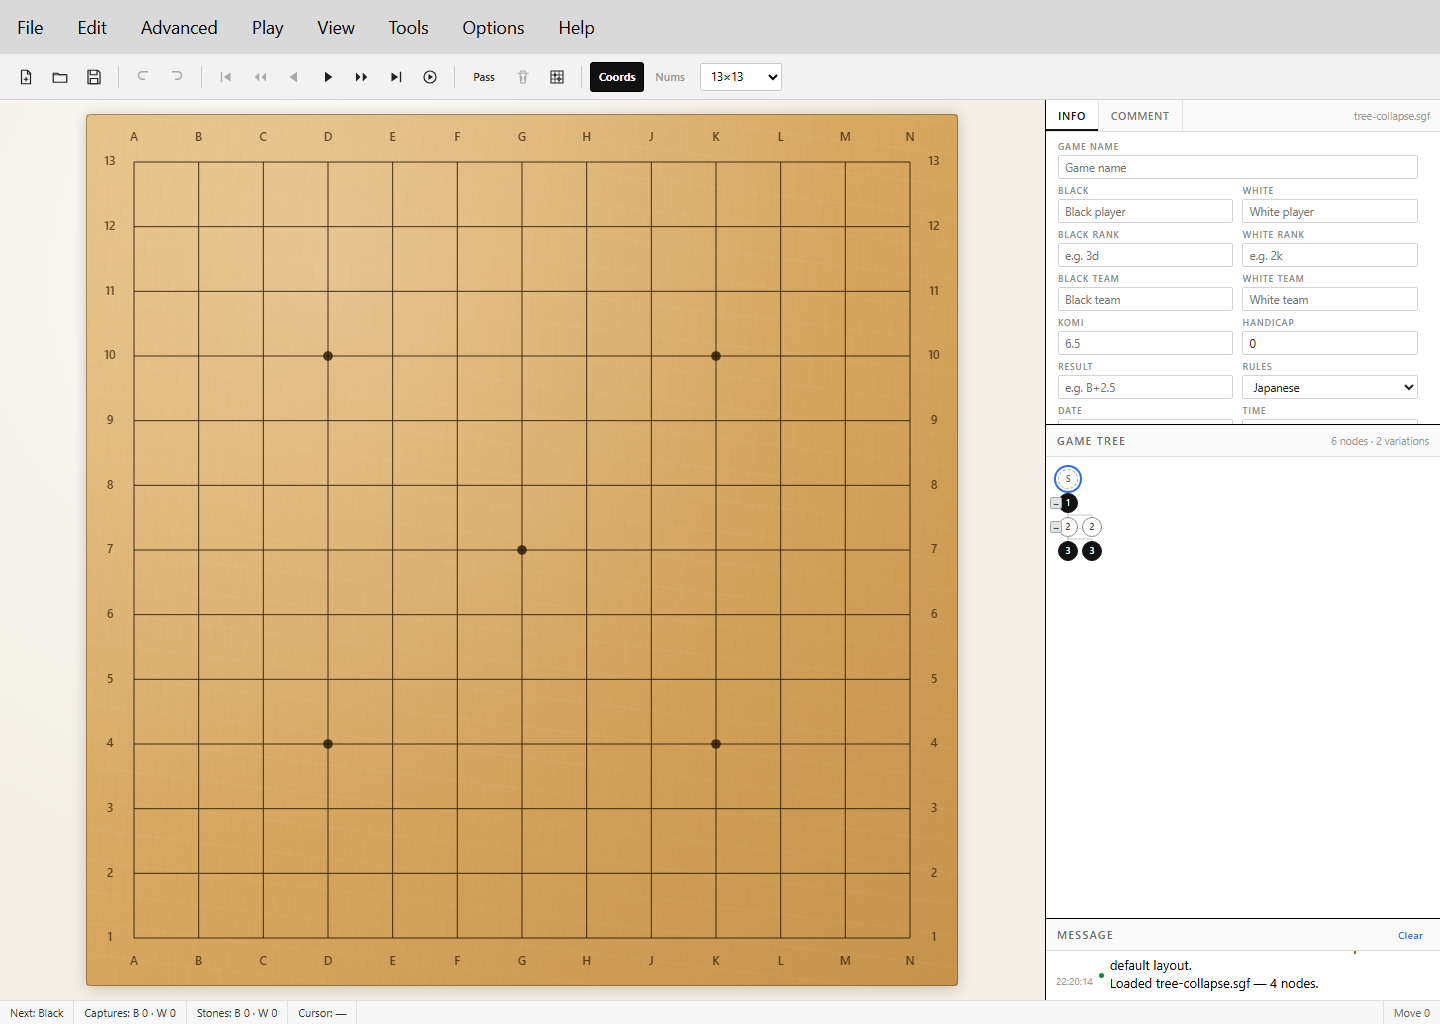
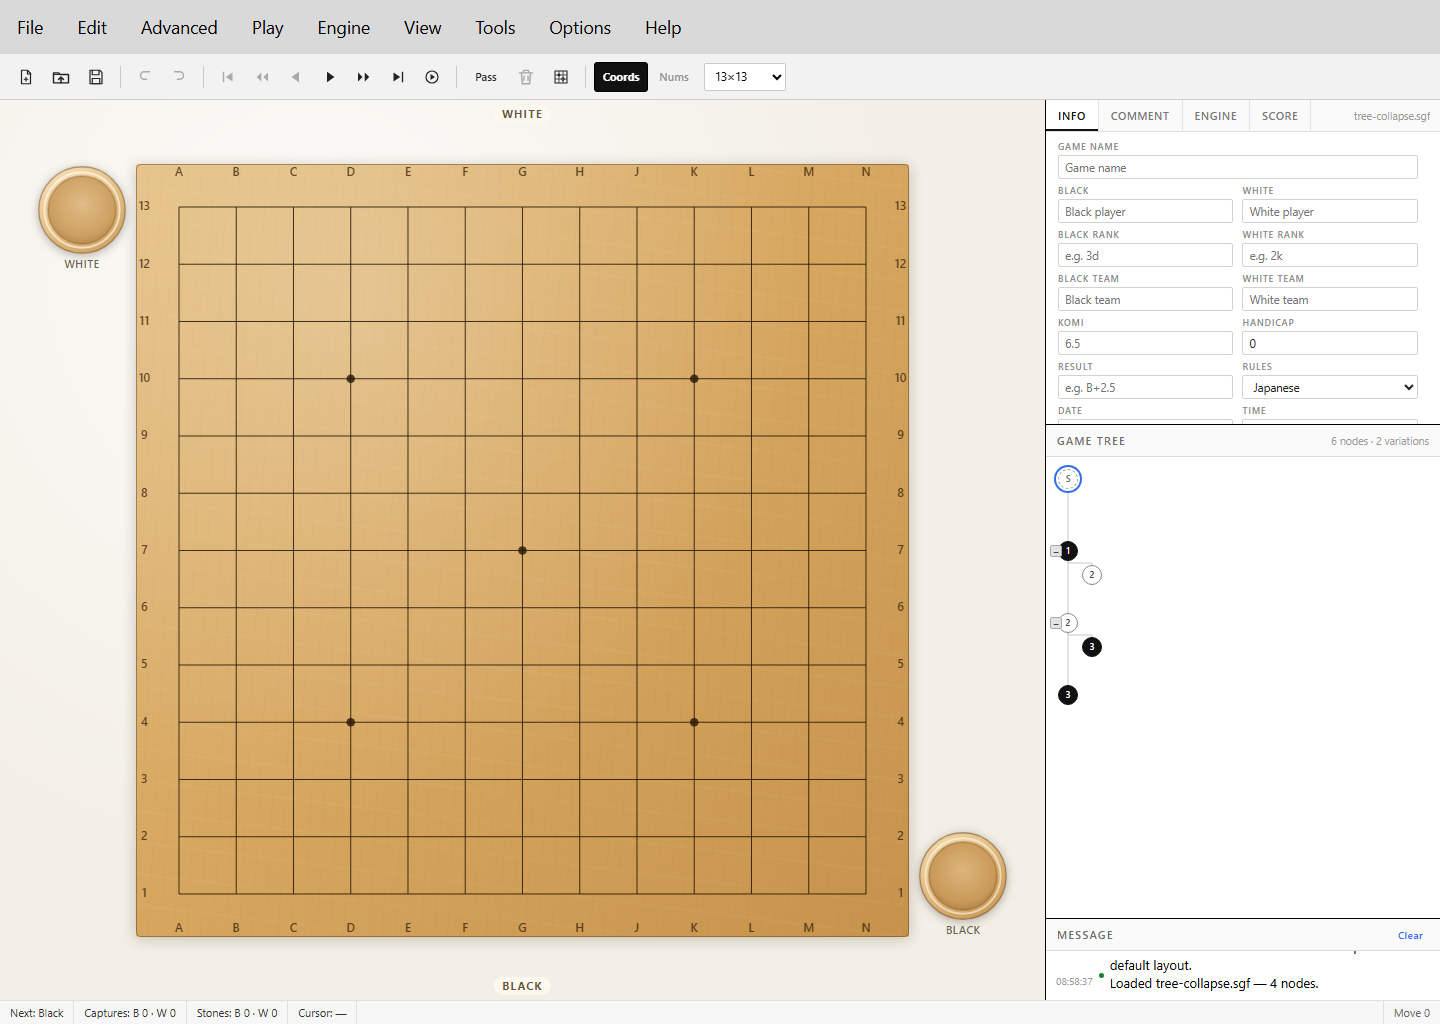
Give the main tree variation 3x vertical spacing

diff --git a/src/renderer.js b/src/renderer.js
@@ -3163,6 +3163,30 @@
       }
     };
     inner(tree.root, 0, 0);
+
+    // The first continuation at every branch point is the main variation and
+    // occupies the leftmost column. Give that line three times the vertical
+    // room of a side variation; side branches keep the compact 1-cell rhythm.
+    const mainIds = new Set();
+    let mainNode = tree.root;
+    while (mainNode) {
+      mainIds.add(mainNode.id);
+      mainNode = mainNode.children[0] || null;
+    }
+    for (const [id, [x, y]] of Object.entries(positions)) {
+      if (mainIds.has(Number(id))) {
+        positions[id] = [x, y * 3];
+        continue;
+      }
+      let ancestor = tree.get(tree.get(Number(id))?.parentId);
+      let ancestorDepth = y - 1;
+      while (ancestor && !mainIds.has(ancestor.id)) {
+        ancestor = tree.get(ancestor.parentId);
+        ancestorDepth -= 1;
+      }
+      const anchorDepth = ancestor ? ancestorDepth : 0;
+      positions[id] = [x, anchorDepth * 3 + (y - anchorDepth)];
+    }
     return { matrix, positions };
   }
 

diff --git a/README.md b/README.md
@@ -21,9 +21,9 @@ list**, compact **pass** nodes in the game tree and the **四4** coordinate syst
 Options menus now use compact dropdowns, and the toolbar **Coords / Nums** labels are white and
 bold when active, dimmed when off.
 
-The **1.1.5 build** repackages the 1.1.4 feature set: the Sabaki-derived **GTP engine layer**,
-Sabaki-style **scoring territory** with **Play → Estimate / Score**, live captured-stone bowls
-and small-board edge fixes. The 1.1.2 release brought **Reload-in-place**, **multi-file branch
+The **1.1.5 build** repackages the 1.1.4 feature set and adds the **main-branch tree layout**:
+the Sabaki-derived **GTP engine layer**, Sabaki-style **scoring territory** with
+**Play → Estimate / Score**, live captured-stone bowls and small-board edge fixes. The 1.1.2 release brought **Reload-in-place**, **multi-file branch
 import**, **PNG board export**, the **UNSAVED** guard, display-only **board rotation/flips**,
 **native fullscreen** and one shared lighter icon.
 
@@ -41,10 +41,10 @@ boards [below](#board-themes-and-responsive-layout).
 Released 2026-11-09. The Windows artifacts are `MultiGo-Neo-1.1.5-setup.exe` and
 `MultiGo-Neo-1.1.5-portable.exe`.
 
-Maintenance repackaging of the 1.1.4 feature set with no functional changes: the docked Score
-tab, GTP engines, Estimate/Score modes, captured-stone bowls and small-board fixes are all as
-described in [Version 1.1.4](#version-114). 1.1.5 exists so the published binaries carry the
-current version string and a clean tag/build.
+Maintenance repackaging of the 1.1.4 feature set, plus a clearer game tree: the first-child
+**main variation is the leftmost column** and its vertical node pitch is **3×** the side-branch
+pitch. The docked Score tab, GTP engines, Estimate/Score modes, captured-stone bowls and
+small-board fixes are all as described in [Version 1.1.4](#version-114).
 
 ### Version 1.1.4
 
@@ -105,6 +105,9 @@ See [Reload, imports and picture export](#reload-imports-and-picture-export),
   comment badges, click to select).
 - Connectors are **orthogonal tree bones** rather than long diagonal parent-child lines:
   vertical runs through a sequence plus a single clean elbow at branches.
+- The first-child **main variation is always the leftmost column**. Its vertical node pitch is
+  **three times** the side-branch pitch, so the main line reads as the primary study path while
+  variations stay compact.
 - Every branch node has a grey **`+` / `−` collapse toggle** (MultiGo-style). Collapsing hides the
   subtree, compacts the remaining layout, keeps the selected node visible, and shows the
   visible/total node count in the panel header.
@@ -122,6 +125,8 @@ See [Reload, imports and picture export](#reload-imports-and-picture-export),
 - New games get `GM[1] FF[4] CA[UTF-8] AP[MultiGo Neo:1.0] SZ[…]`.
 
 ![Orthogonal Sabaki-style game tree with branch collapse toggles](preview/preview-tree-expanded.png)
+
+![Leftmost main variation with 3x vertical node pitch and compact side branches](preview/preview-tree-main.png)
 
 ![Collapsed branch showing the plus toggle and compact 2/6 node count](preview/preview-tree-collapsed.png)
 
@@ -1269,6 +1274,7 @@ scripts/verify-edit-ui.mjs CDP test for Edit operations, panel limits and move m
 scripts/verify-review-ui.mjs CDP test for sibling badges, Read Only, game info and comment editor
 scripts/verify-r17-ui.mjs CDP test for player columns, compact panes, single-branch hints, fast/steps, delete and comment height
 scripts/verify-tree-collapse-ui.mjs CDP test for orthogonal tree bones and branch expand/collapse
+scripts/verify-tree-main-ui.mjs CDP test for leftmost main variation and 3x main-branch pitch
 scripts/verify-paper-theme-ui.mjs CDP test for flat printed stones in the Paper theme
 scripts/verify-dirty-transform-ui.mjs CDP test for unsaved prompts, board transforms, G reset and fullscreen
 scripts/verify-file-tools-ui.mjs CDP test for Reload, branch imports, board PNG export and Ctrl-Q
